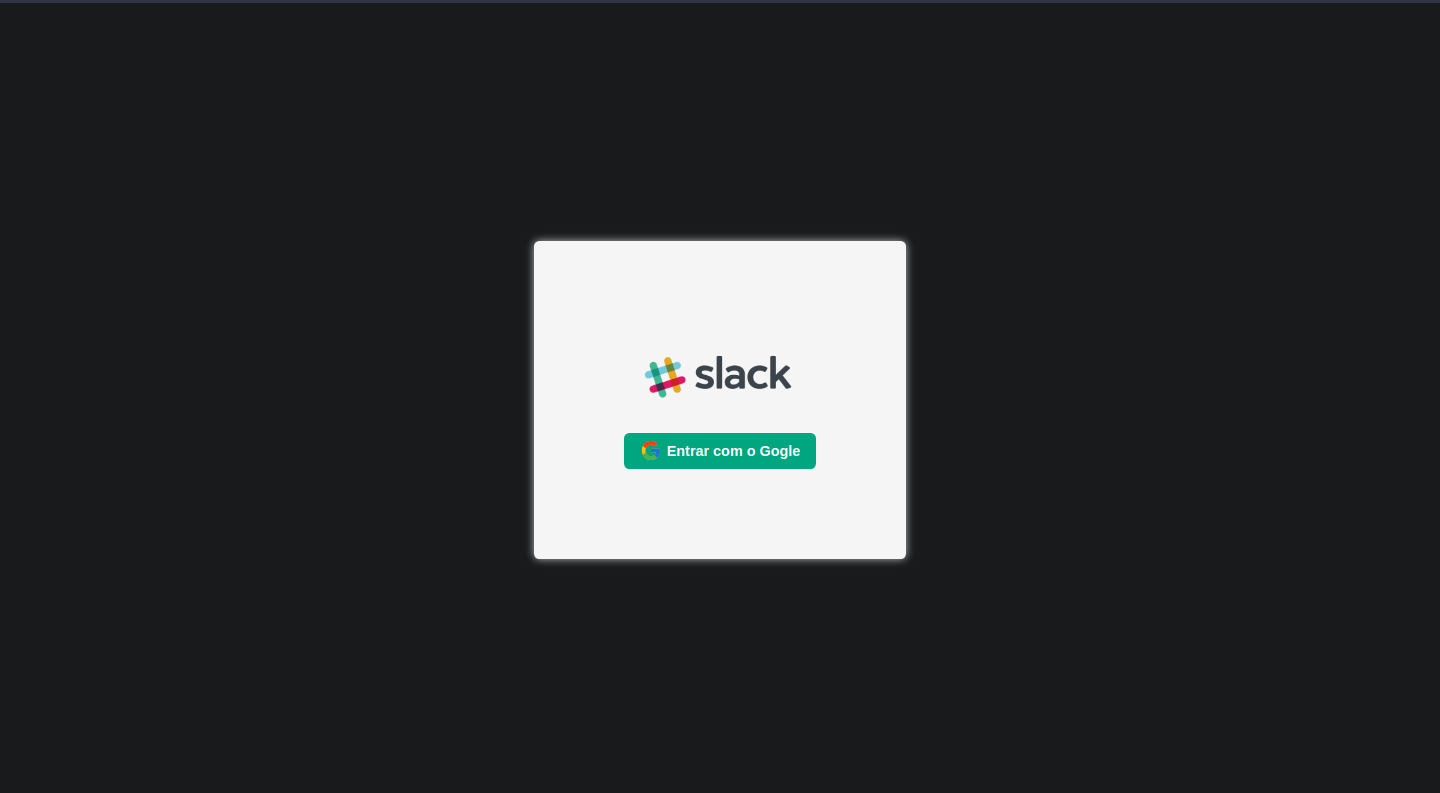
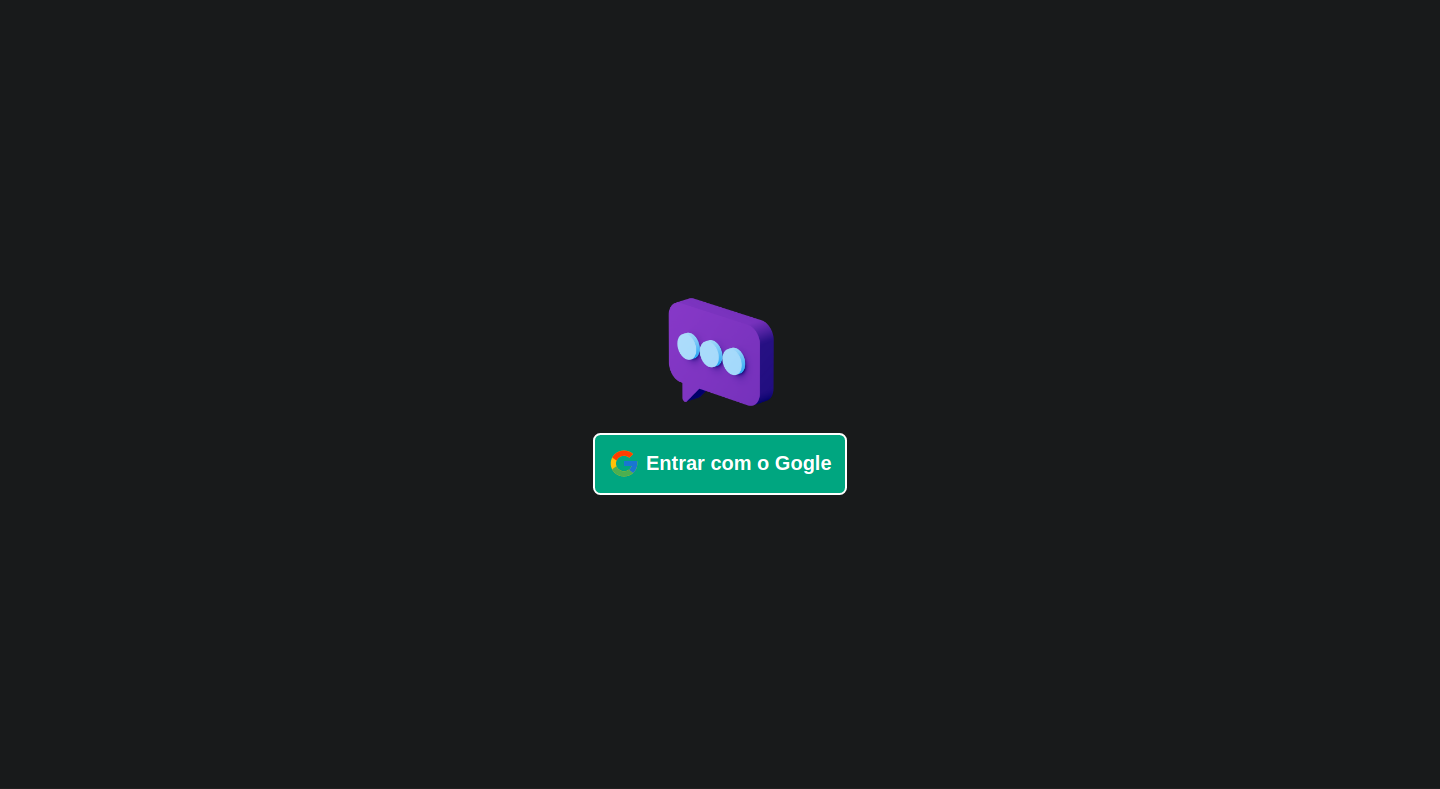
fix: update

Changed region(s): [[0.3438, 0.2738, 0.6562, 0.73], [0.0, 0.0, 1.0, 0.0304]]

diff --git a/src/pages/Login/index.tsx b/src/pages/Login/index.tsx
@@ -1,24 +1,25 @@
-import React from 'react'
-import { ContainerLogin, LoginInnerContainer, ButtonLogin } from './styles'
-import { FcGoogle } from 'react-icons/fc'
-import { auth, provider } from '../../firabase';
+import React from "react";
+import { ContainerLogin, LoginInnerContainer, ButtonLogin } from "./styles";
+import { FcGoogle } from "react-icons/fc";
+import { auth, provider } from "../../firabase";
+
 function Login() {
     const singIn = async (e: { preventDefault: () => void }) => {
         e.preventDefault();
-        auth.signInWithPopup(provider).catch(err => alert(err.message));
-    }
+        auth.signInWithPopup(provider).catch((err) => alert(err.message));
+    };
 
     return (
         <ContainerLogin>
             <LoginInnerContainer>
-                <h2>Login</h2> 
+                <img src="/images/chat.png" alt="" />
                 <ButtonLogin onClick={singIn}>
                     <FcGoogle size={25} />
                     Entrar com o Gogle
                 </ButtonLogin>
             </LoginInnerContainer>
         </ContainerLogin>
-    )
+    );
 }
 
-export default Login
+export default Login;

diff --git a/src/pages/Login/styles.ts b/src/pages/Login/styles.ts
@@ -10,11 +10,21 @@ export const ContainerLogin = styled.div`
 `;
 
 export const LoginInnerContainer = styled.div`
-    background-color: #f5f5f5;
     text-align: center;
-    padding: 100px;
+    padding: 50px;
     border-radius: 6px;
-    box-shadow: 0px 0px 10px 0px rgba(255, 255, 255, 0.7);
+
+    img {
+        width: 100px;
+        height: 100px;
+    }
+
+    > div {
+        svg {
+            font-size: 55px;
+            color: #ff5a5f;
+        }
+    }
 
     > img {
         object-fit: contain;
@@ -25,17 +35,19 @@ export const LoginInnerContainer = styled.div`
 
 export const ButtonLogin = styled.button`
     margin-top: 10px;
-    background-color: #00a680;
+    background-color: transparent;
     border-radius: 6px;
-    border: none;
+    border: 2px solid #FFF;
     width: 100%;
-    height: 40px;
+    height: 50px;
     font-size: 1rem;
-    color: #fff;
+    color: #FFF;
+    background-color: #00a680;
     font-weight: bold;
     display: flex;
     align-items: center;
     justify-content: center;
+    padding: 10px;
 
     svg {
         margin-right: 5px;

diff --git a/README.md b/README.md
@@ -24,8 +24,6 @@ This is a real-time slack-inspired chat app made with firebase!
 
 ## Demo
 
-Insert gif or link to demo
-
 Demo application: https://slack-clone-61211.web.app/
 
 ## Installation
